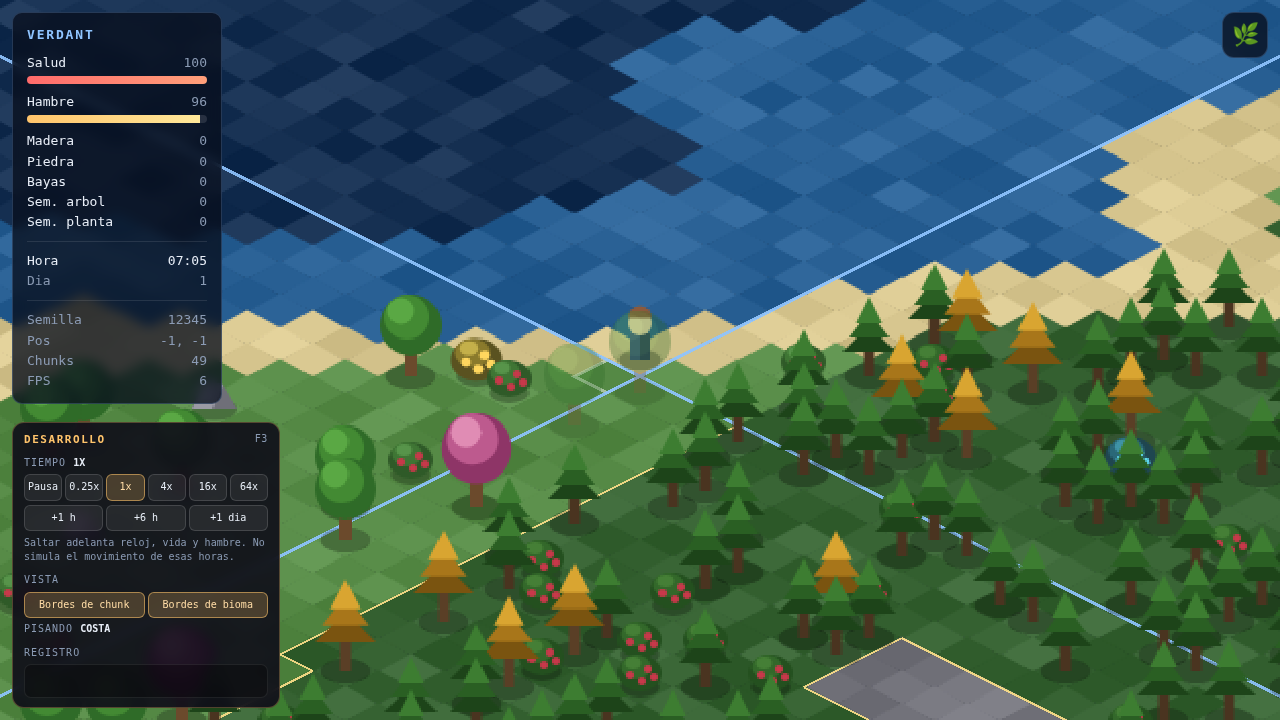
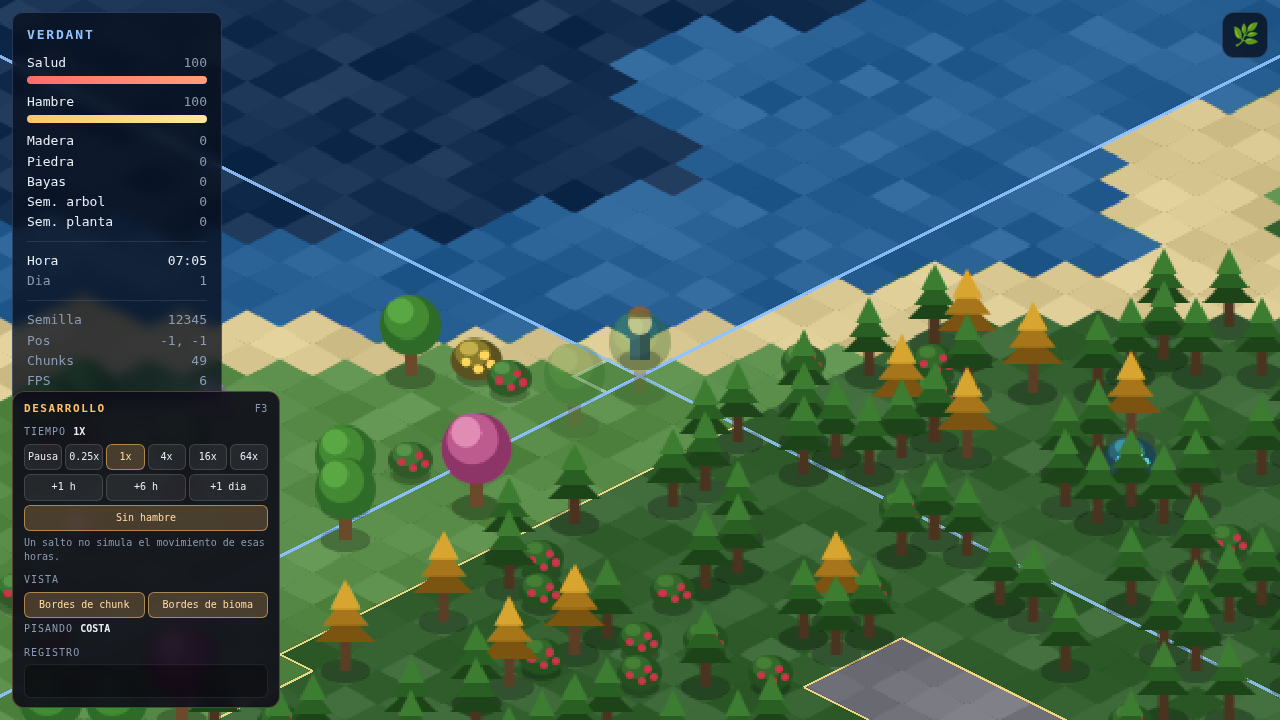
Congelar la supervivencia desde las herramientas de desarrollo
El hambre hacia inservibles el acelerador y los saltos. No era una impresion:
con HUNGER_DECAY_PER_SEC = 0.55, a 64x se pierden unos 35 puntos por segundo
real, y un salto de +1 dia son ocho minutos de mundo, o sea 264 puntos. El boton
mas util del panel era el que mataba.

Un booleano en GameState, `survivalFrozen`, leido en los dos unicos sitios que
gastan supervivencia: `step` y `skipTime`. Como lo respetan los dos, saltar sigue
equivaliendo a esperar con el interruptor en cualquier posicion, y el test que
defiende esa equivalencia pasa a comprobarlo en las dos. `updateSurvival` no se
toca: el nucleo no tiene que enterarse de que existe un panel, igual que no se
entera del registro de eventos.

Decisiones del autor
--------------------

Se congela la supervivencia entera, hambre y salud. Congelar solo el hambre
dejaba un caso absurdo: llegar al panel con el hambre ya a cero y seguir muriendo
de inanicion con el hambre congelada.

Empieza encendido y solo se aplica con el panel abierto, asi que los saltos y el
64x sirven desde el primer clic y cerrar el panel devuelve el juego a su sitio.
`DevTools.survivalFrozen` es un getter, como `timeScale`.

Verificacion
------------

98 tests: cuatro nuevos sobre el interruptor (un dia congelado no gasta nada; sin
congelar ese mismo salto sigue matando; congela tambien el juego normal; apagarlo
devuelve el hambre a su ritmo exacto) y el de equivalencia ampliado a las dos
[…]

Changed region(s): [[0.0, 0.5194, 0.2188, 0.7944]]

diff --git a/tests/simulation.test.ts b/tests/simulation.test.ts
@@ -6,10 +6,21 @@ import {
   EntityStore,
   HUNGER_DECAY_PER_SEC,
   moveEntity,
+  skipTime,
   step,
   World,
 } from '@verdant/sim';
-import { emptyIntent, Feature, LifeKind, lifeKindOf, Resource, TICK_DT, TICK_HZ, type Intent } from '@verdant/shared';
+import {
+  DAY_TICKS,
+  emptyIntent,
+  Feature,
+  LifeKind,
+  lifeKindOf,
+  Resource,
+  TICK_DT,
+  TICK_HZ,
+  type Intent,
+} from '@verdant/shared';
 
 function intent(over: Partial<Intent> = {}): Intent {
   return { ...emptyIntent(), ...over };
@@ -214,5 +225,65 @@ describe('movimiento analogico', () => {
 
   it('por debajo del umbral de ruido no hay movimiento', () => {
     expect(travel(1e-9, 0)).toBe(0);
+  });
+});
+
+/**
+ * El interruptor de supervivencia de las herramientas de desarrollo.
+ *
+ * Sin el, las herramientas no sirven para lo que se hicieron: saltar un dia son
+ * ocho minutos de mundo, o sea 264 puntos de hambre, y el personaje muere antes
+ * de que se pueda observar nada del ecosistema.
+ */
+describe('Congelar la supervivencia', () => {
+  it('con la supervivencia congelada, saltar un dia entero no gasta nada', () => {
+    const state = createGame(31337);
+    state.survivalFrozen = true;
+    const hunger = state.entities.hunger[state.playerId];
+    const health = state.entities.health[state.playerId];
+
+    skipTime(state, DAY_TICKS);
+
+    expect(state.entities.hunger[state.playerId]).toBe(hunger);
+    expect(state.entities.health[state.playerId]).toBe(health);
+    expect(state.entities.alive[state.playerId]).toBe(1);
+    // El mundo si avanza: lo congelado es el personaje, no el tiempo.
+    expect(state.tick).toBe(createGame(31337).tick + DAY_TICKS);
+  });
+
+  it('sin congelar, ese mismo salto sigue matando de hambre', () => {
+    const state = createGame(31337);
+    skipTime(state, DAY_TICKS);
+
+    // Es justo el comportamiento que hacia inservible el boton de +1 dia.
+    expect(state.entities.hunger[state.playerId]).toBe(0);
+    expect(state.entities.alive[state.playerId]).toBe(0);
+  });
+
+  it('el interruptor tambien congela el juego normal, no solo los saltos', () => {
+    const state = createGame(31337);
+    state.survivalFrozen = true;
+    const hunger = state.entities.hunger[state.playerId];
+
+    const idle = emptyIntent();
+    for (let t = 0; t < TICK_HZ * 30; t++) step(state, idle);
+
+    expect(state.entities.hunger[state.playerId]).toBe(hunger);
+  });
+
+  it('apagarlo devuelve el hambre a su ritmo de siempre', () => {
+    const state = createGame(31337);
+    state.survivalFrozen = true;
+    const idle = emptyIntent();
+    for (let t = 0; t < TICK_HZ * 30; t++) step(state, idle);
+
+    state.survivalFrozen = false;
+    const before = state.entities.hunger[state.playerId];
+    for (let t = 0; t < TICK_HZ * 10; t++) step(state, idle);
+
+    const lost = before - state.entities.hunger[state.playerId];
+    // Con dos decimales: el hambre vive en un Float32Array y 600 restas de
+    // 0.55/60 acumulan unas milesimas de error.
+    expect(lost).toBeCloseTo(HUNGER_DECAY_PER_SEC * 10, 2);
   });
 });

diff --git a/packages/client/src/devtools.ts b/packages/client/src/devtools.ts
@@ -41,6 +41,11 @@ export class DevTools {
   paused = false;
   showChunkBorders = false;
   showBiomeBorders = false;
+  /**
+   * Congela hambre y salud. Empieza puesto porque, sin el, el boton mas util del
+   * panel es el que mata: saltar un dia gasta 264 puntos de hambre.
+   */
+  freezeSurvival = true;
 
   /** Ultimo estado observado, para deducir que ha cambiado. */
   private lastInventory: number[] | null = null;
@@ -69,6 +74,14 @@ export class DevTools {
     return this.enabled;
   }
 
+  /**
+   * Congelacion efectiva. Con el panel cerrado el juego corre normal, aunque el
+   * conmutador se quede puesto para la proxima vez que se abra.
+   */
+  get survivalFrozen(): boolean {
+    return this.enabled && this.freezeSurvival;
+  }
+
   /** Factor por el que multiplicar el tiempo transcurrido en cada frame. */
   get timeScale(): number {
     if (!this.enabled) return 1;
@@ -81,11 +94,14 @@ export class DevTools {
     if (this.root) this.root.hidden = !this.enabled;
     if (!this.enabled) {
       // Al cerrar se devuelve todo a su sitio: dejar el juego en pausa o a 64x
-      // sin panel visible seria desconcertante.
+      // sin panel visible seria desconcertante. La congelacion vuelve a su valor
+      // de apertura, y el getter ya se encarga de que no afecte con el panel
+      // cerrado.
       this.paused = false;
       this.speed = 1;
       this.showChunkBorders = false;
       this.showBiomeBorders = false;
+      this.freezeSurvival = true;
     }
     this.refresh();
   }
@@ -137,6 +153,7 @@ export class DevTools {
       ['chunks', this.showChunkBorders],
       ['biomes', this.showBiomeBorders],
       ['pause', this.paused],
+      ['survival', this.freezeSurvival],
     ] as Array<[string, boolean]>) {
       this.root?.querySelector(`[data-toggle="${key}"]`)?.classList.toggle('on', on);
     }
@@ -164,8 +181,10 @@ export class DevTools {
               `<button data-jump="${ticks}" data-jump-label="${label}" type="button">${label}</button>`,
           ).join('')}
         </div>
-        <p class="devNote">Saltar adelanta reloj, vida y hambre. No simula el
-        movimiento de esas horas.</p>
+        <div class="devRow">
+          <button data-toggle="survival" type="button">Sin hambre</button>
+        </div>
+        <p class="devNote">Un salto no simula el movimiento de esas horas.</p>
       </div>
       <div class="devGroup">
         <span class="devLabel">Vista</span>
@@ -209,6 +228,9 @@ export class DevTools {
             break;
           case 'biomes':
             this.showBiomeBorders = !this.showBiomeBorders;
+            break;
+          case 'survival':
+            this.freezeSurvival = !this.freezeSurvival;
             break;
           default:
             break;

diff --git a/tests/world-laws.test.ts b/tests/world-laws.test.ts
@@ -512,18 +512,26 @@ describe('Saltar el tiempo equivale a esperar quieto', () => {
     ];
   }
 
-  it('una hora saltada y una hora vivida quieto dejan el mismo mundo', () => {
-    const hour = Math.round(DAY_TICKS / 24);
+  // Con el interruptor de supervivencia en las dos posiciones: es una
+  // herramienta de desarrollo y no puede alterar la equivalencia que justifica
+  // usarla.
+  for (const frozen of [false, true]) {
+    const label = frozen ? 'con la supervivencia congelada' : 'con el hambre corriendo';
+    it(`una hora saltada y una hora vivida quieto dejan el mismo mundo, ${label}`, () => {
+      const hour = Math.round(DAY_TICKS / 24);
 
-    const waited = createGame(31337);
-    const idle = emptyIntent();
-    for (let t = 0; t < hour; t++) step(waited, idle);
+      const waited = createGame(31337);
+      waited.survivalFrozen = frozen;
+      const idle = emptyIntent();
+      for (let t = 0; t < hour; t++) step(waited, idle);
 
-    const skipped = createGame(31337);
-    skipTime(skipped, hour);
+      const skipped = createGame(31337);
+      skipped.survivalFrozen = frozen;
+      skipTime(skipped, hour);
 
-    // Identico, no parecido: la vida avanza en pasos globales fijos y el hambre
-    // se aplica tick a tick tambien en el salto.
-    expect(snapshot(skipped)).toEqual(snapshot(waited));
-  });
+      // Identico, no parecido: la vida avanza en pasos globales fijos y el
+      // hambre se aplica tick a tick tambien en el salto.
+      expect(snapshot(skipped)).toEqual(snapshot(waited));
+    });
+  }
 });

diff --git a/packages/sim/src/tick.ts b/packages/sim/src/tick.ts
@@ -32,6 +32,16 @@ export interface GameState {
   /** Chunk en el que estaba el jugador el tick anterior, para streaming perezoso. */
   streamCx: number;
   streamCy: number;
+  /**
+   * Congela hambre y salud. Interruptor de desarrollo, no de juego.
+   *
+   * Existe porque el hambre hacia inservibles el acelerador y los saltos: a 64x
+   * se pierden unos 35 puntos por segundo real, y saltar un dia son 264 — muerte
+   * segura antes de poder observar nada del ecosistema. Lo respetan por igual
+   * `step` y `skipTime`, asi que saltar sigue equivaliendo a esperar este puesto
+   * o no.
+   */
+  survivalFrozen: boolean;
 }
 
 /**
@@ -57,6 +67,7 @@ export function createGame(seed: number, startTick: number = DEFAULT_START_TICK)
     lastHarvest: null,
     streamCx: Number.NaN,
     streamCy: Number.NaN,
+    survivalFrozen: false,
   };
 
   streamChunks(state);
@@ -99,7 +110,7 @@ export function step(state: GameState, intent: Intent): void {
     if (intent.eat) {
       tryEat(entities, playerId, inventory);
     }
-    updateSurvival(entities, playerId, TICK_DT);
+    if (!state.survivalFrozen) updateSurvival(entities, playerId, TICK_DT);
   }
 
   streamChunks(state);
@@ -127,7 +138,7 @@ export function skipTime(state: GameState, ticks: number): void {
 
   for (let i = 0; i < span; i++) {
     state.world.setNow(state.tick);
-    updateSurvival(state.entities, state.playerId, TICK_DT);
+    if (!state.survivalFrozen) updateSurvival(state.entities, state.playerId, TICK_DT);
     state.tick++;
   }
 }

diff --git a/packages/client/src/main.ts b/packages/client/src/main.ts
@@ -187,6 +187,9 @@ async function main(): Promise<void> {
     // Las herramientas de desarrollo pueden pausar o acelerar el tiempo. Con
     // escala cero el acumulador no avanza y la simulacion queda congelada.
     accumulator += frame * dev.timeScale;
+    // Se copia cada frame, como los conmutadores de bordes: asi reiniciar la
+    // partida o abrir el panel antes de que exista el estado se resuelve solo.
+    state.survivalFrozen = dev.survivalFrozen;
     while (accumulator >= TICK_DT) {
       prevX = state.entities.x[state.playerId];
       prevY = state.entities.y[state.playerId];
@@ -227,6 +230,7 @@ async function main(): Promise<void> {
       tracked: state.world.trackedChunkCount,
       dev: dev.active,
       timeScale: dev.timeScale,
+      survivalFrozen: dev.survivalFrozen,
       biome: BIOME_NAMES[
         state.world.biomeAt(
           Math.floor(state.entities.x[state.playerId]),

diff --git a/CLAUDE.md b/CLAUDE.md
@@ -115,18 +115,26 @@ software a 3x, asi que ese numero no dice nada del rendimiento en un movil real.
 
 `packages/client/src/devtools.ts`, con `?dev=1` en la URL o F3. Pausa,
 multiplicadores de tiempo, saltos de +1 h / +6 h / +1 dia, bordes de chunk y de
-bioma, y un registro de eventos.
+bioma, congelar la supervivencia, y un registro de eventos.
 
 Existen porque casi todo lo del ecosistema tarda horas reales en poder
 comprobarse —cinco para recuperar un bioma desde cero, dos y media para corregir
 una saturacion, ocho minutos para que madure un brote—, asi que sin ellas no hay
 forma de verificar a mano lo que se implementa.
 
-Dos cosas que conviene no romper: el registro sale de **comparar el inventario y
+Tres cosas que conviene no romper: el registro sale de **comparar el inventario y
 el hambre entre refrescos**, no de que la simulacion emita eventos, asi que el
-nucleo no se entera de que existe; y `skipTime` es `step` con la Intent vacia,
-para que saltar una hora deje el mundo exactamente igual que vivirla quieto. Hay
-un test que lo comprueba.
+nucleo no se entera de que existe; `skipTime` es `step` con la Intent vacia, para
+que saltar una hora deje el mundo exactamente igual que vivirla quieto; y
+`GameState.survivalFrozen` lo respetan por igual `step` y `skipTime`, para que esa
+equivalencia siga valiendo con el interruptor en cualquier posicion. Hay tests de
+las tres.
+
+La congelacion empieza puesta al abrir el panel y solo se aplica con el panel
+abierto (`DevTools.survivalFrozen` es un getter, como `timeScale`). Sin ella las
+herramientas no sirven para lo que se hicieron: a 64x se pierden unos 35 puntos
+de hambre por segundo real y saltar un dia son 264, asi que el boton mas util del
+panel era el que mataba.
 
 ## Si tocas la generacion del mundo
 
